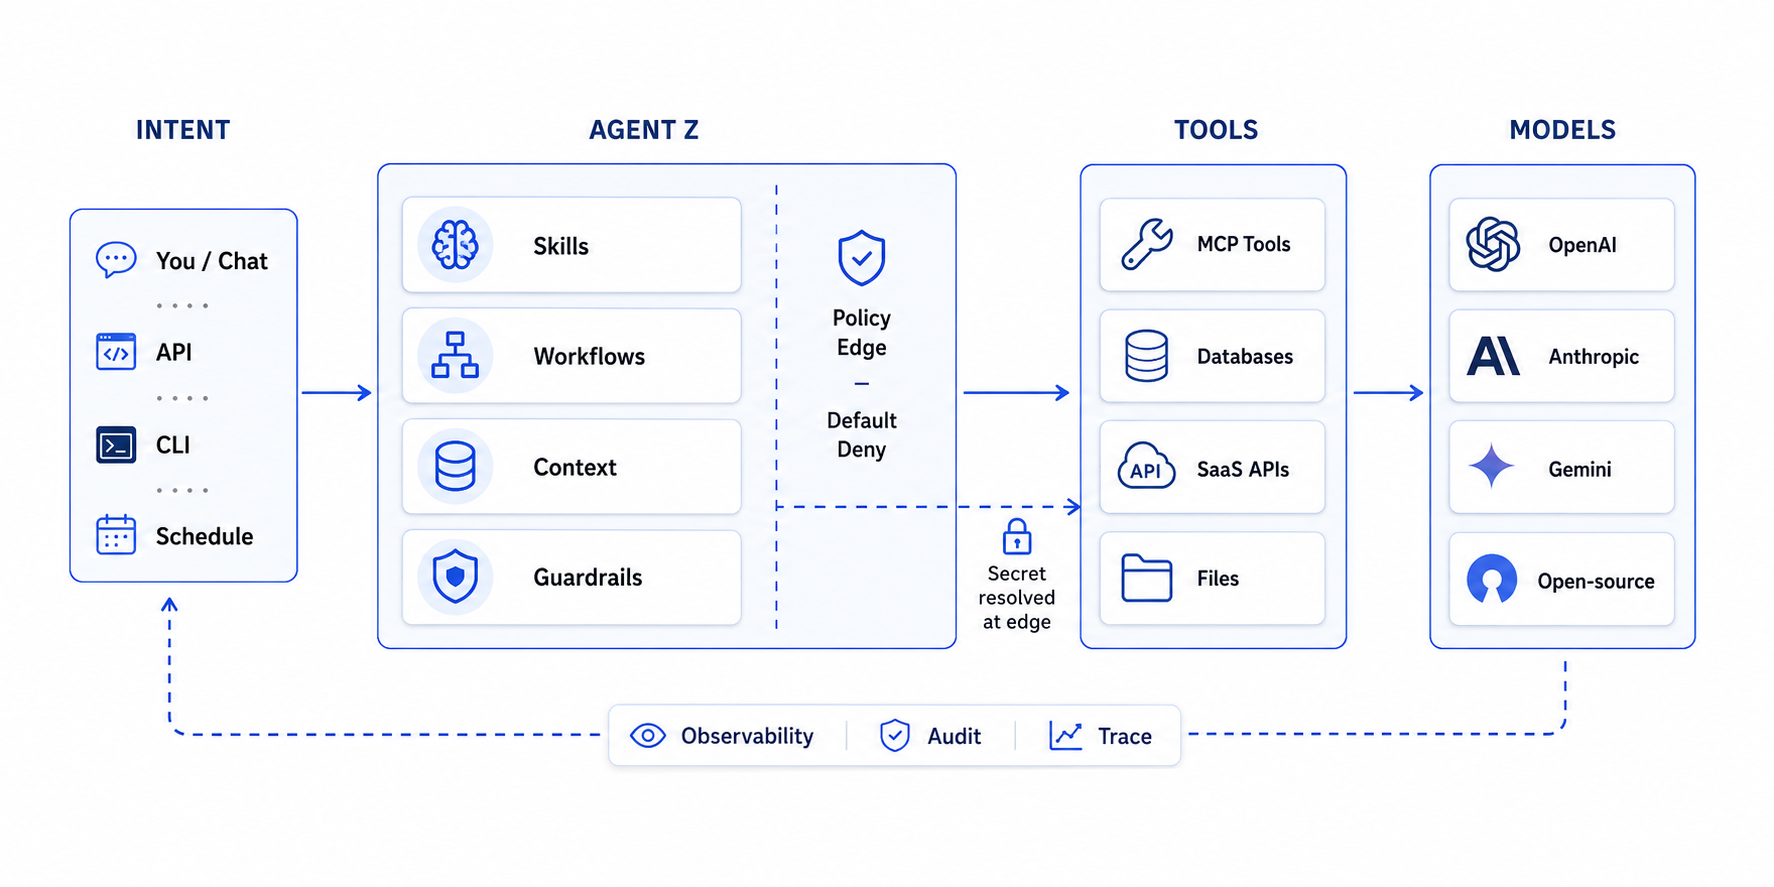
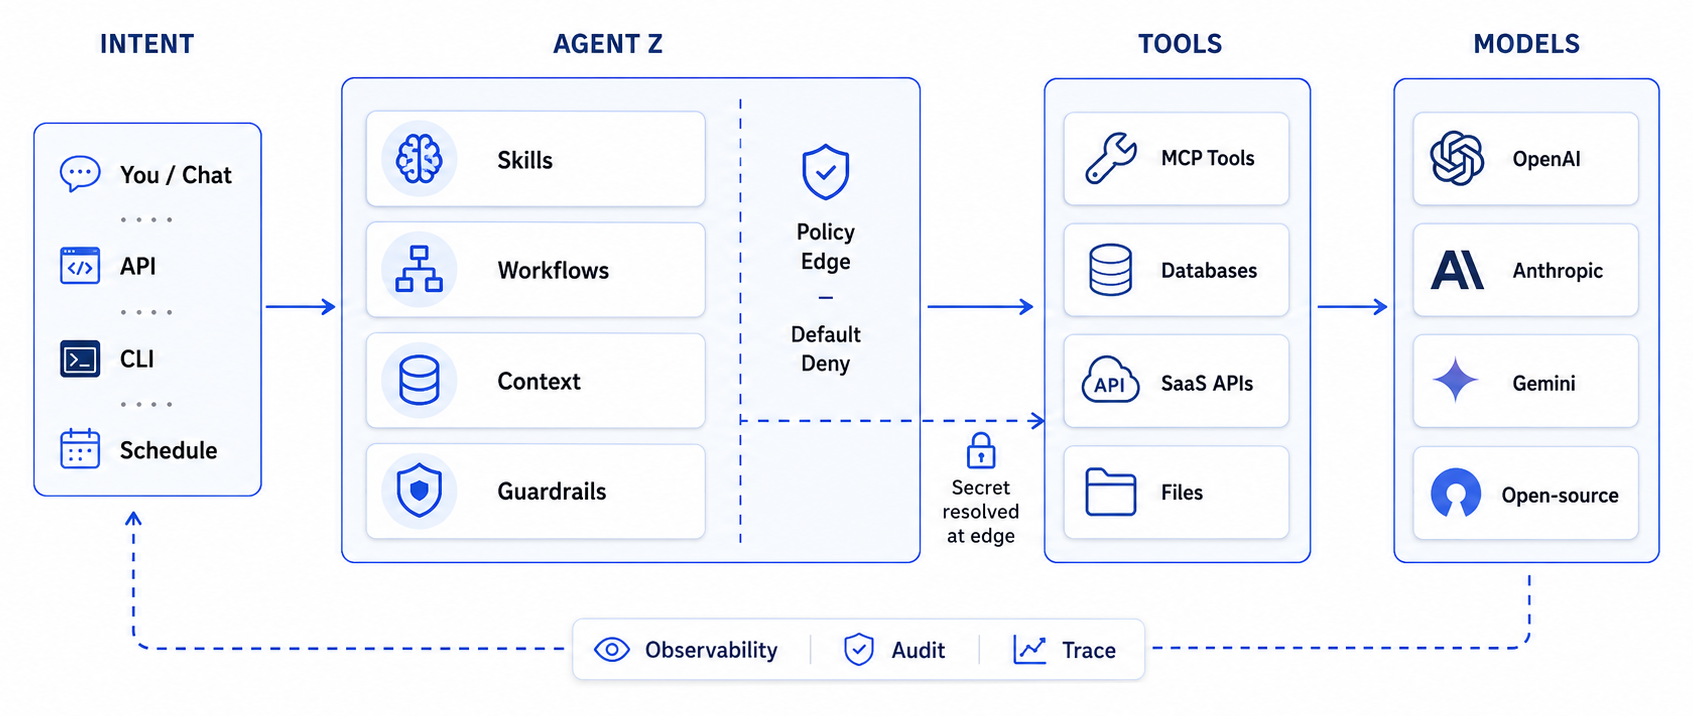
Trim flow diagram whitespace, bigger platform card text, reorder page for real content first
Crop assets/img/flow-diagram.png to its content bounding box; the source
export had ~25% dead white margin top and bottom. Bump arch-card heading
and body text size in the platform grid. Give the product-screens section
an explicit heading. Reorder sections so real product media leads: the
video carousel now sits right after Build/Run/Govern, organization safety
moves up ahead of the text-only feature sections, and the pillars section
(still placeholder cards) moves later.

diff --git a/index.html b/index.html
@@ -10,7 +10,7 @@
 <link rel="preconnect" href="https://fonts.gstatic.com" crossorigin>
 <link href="https://api.fontshare.com/v2/css?f[]=general-sans@400,500,600,700&display=swap" rel="stylesheet">
 <link href="https://fonts.googleapis.com/css2?family=Instrument+Serif:ital@0;1&family=JetBrains+Mono:wght@400;500&display=swap" rel="stylesheet">
-<link rel="stylesheet" href="styles.css?v=51" />
+<link rel="stylesheet" href="styles.css?v=52" />
 </head>
 <body>
 
@@ -154,21 +154,6 @@
   </div>
 </section>
 
-<!-- ══════════════════ THREE PILLARS (left header + cards) ══════════════════ -->
-<section class="feature" id="pillars">
-  <div class="wrap">
-    <div class="fhead">
-      <h2 class="fhead-h">A platform for the agents <span class="hl hl-a">your teams already want to build</span>.</h2>
-      <p class="fhead-p">Compose <span class="hl hl-a">skills</span>, wire them into <span class="hl hl-b">workflows</span>, and roll them out across your <span class="hl hl-c">organization</span>. Bring any model or framework, security stays underneath.</p>
-    </div>
-    <div class="ncards ncards-3">
-      <article class="ncard"><div class="ncard-top"><span class="ncard-ico"><svg class="ico"><use href="#i-skills"/></svg></span><span class="ncard-n">01</span></div><h3><span class="hl hl-a">Skill management</span></h3><p>Package capabilities as reusable skills. Versioned, testable, and shared across every agent your team runs.</p><div class="ph ncard-ph"><span class="ph-ico"><svg class="ico"><use href="#i-image"/></svg></span><span class="ph-label">Image · 16:9</span></div></article>
-      <article class="ncard"><div class="ncard-top"><span class="ncard-ico"><svg class="ico"><use href="#i-teams"/></svg></span><span class="ncard-n">02</span></div><h3><span class="hl hl-c">Organizational support</span></h3><p>Roles, teams, and shared context so every function can put agents to work, not just the platform team.</p><div class="ph ncard-ph"><span class="ph-ico"><svg class="ico"><use href="#i-image"/></svg></span><span class="ph-label">Image · 16:9</span></div></article>
-      <article class="ncard"><div class="ncard-top"><span class="ncard-ico"><svg class="ico"><use href="#i-workflows"/></svg></span><span class="ncard-n">03</span></div><h3><span class="hl hl-b">Workflow support</span></h3><p>Chain skills into workflows. Trigger on a schedule, an event, or a request. Hand off cleanly between agents.</p><div class="ph ncard-ph"><span class="ph-ico"><svg class="ico"><use href="#i-image"/></svg></span><span class="ph-label">Image · 16:9</span></div></article>
-    </div>
-  </div>
-</section>
-
 <!-- ══════════════════ BUILD · RUN · GOVERN (scroll stepper) ══════════════════ -->
 <section class="stepper" id="brg">
   <div class="stepper-sticky">
@@ -220,13 +205,32 @@
   </div>
 </section>
 
+<!-- ══════════════════ SEE IT IN ACTION (video carousel) ══════════════════ -->
+<section class="videos" id="demos">
+  <div class="wrap">
+    <div class="vid-head">
+      <h2 class="section-h2 vid-title">See AgentZ in Action <span class="vid-title-sub">Real workflows from teams</span></h2>
+      <div class="vid-nav">
+        <button class="vid-arrow" data-dir="-1" aria-label="Previous"><svg class="ico"><use href="#i-chev"/></svg></button>
+        <button class="vid-arrow" data-dir="1" aria-label="Next"><svg class="ico"><use href="#i-chev"/></svg></button>
+      </div>
+    </div>
+    <div class="vid-track" id="vid-track">
+      <a class="video-card" href="#waitlist"><div class="vw vw-thumb"><video src="assets/video/card-mcp-connect.mp4" poster="assets/video/card-mcp-connect.jpg" autoplay muted loop playsinline preload="metadata" aria-label="Connecting an MCP server in AgentZ"></video></div><b>Connect an MCP server</b><p>Pick a provider, authorize, watch it go Ready.</p></a>
+      <a class="video-card" href="#waitlist"><div class="vw vw-thumb"><video src="assets/video/card-schedule-cron.mp4" poster="assets/video/card-schedule-cron.jpg" autoplay muted loop playsinline preload="metadata" aria-label="Editing a cron schedule in AgentZ"></video></div><b>Schedule an agent</b><p>Set a cron, edit the schedule in place, no redeploy.</p></a>
+      <a class="video-card" href="#waitlist"><div class="vw vw-thumb"><video src="assets/video/card-signed-trace.mp4" poster="assets/video/card-signed-trace.jpg" autoplay muted loop playsinline preload="metadata" aria-label="Reading a signed trace in AgentZ: span tree, per-call durations and token counts"></video></div><b>Read a signed trace</b><p>Inspect every span, down to the token.</p></a>
+      <a class="video-card" href="#waitlist"><div class="ph video-thumb"><span class="ph-play"><svg class="ico"><use href="#i-play"/></svg></span><span class="ph-label">Embed demo video</span></div><b>Guard a response</b><p>Run over real tools with policy at the edge.</p></a>
+    </div>
+  </div>
+</section>
+
 <!-- ══════════════════ PRODUCT SCREENS (carousel) ══════════════════ -->
 <section class="screens" id="screens">
   <div class="wrap">
     <div class="vid-head">
       <div>
         <p class="section-eyebrow">Inside the product</p>
-        <h2 class="section-h2">A look at AgentZ.</h2>
+        <h2 class="section-h2">The real dashboard, screen by screen.</h2>
       </div>
       <div class="vid-nav">
         <button class="vid-arrow" data-dir="-1" aria-label="Previous"><svg class="ico"><use href="#i-chev"/></svg></button>
@@ -239,39 +243,6 @@
       <figure class="screen-card"><span class="screen-shot"><img src="assets/img/dash/span-error.png" alt="Span detail with token breakdown"></span><figcaption><b>Signed traces</b><span>Read every span, down to the token.</span></figcaption></figure>
       <figure class="screen-card"><span class="screen-shot"><img src="assets/img/dash/network.png" alt="Network egress allowed or blocked at the kernel"></span><figcaption><b>Policy edge</b><span>Every egress allowed or blocked at the kernel.</span></figcaption></figure>
       <figure class="screen-card"><span class="screen-shot"><img src="assets/img/dash/environment.png" alt="A signed environment"></span><figcaption><b>Environments</b><span>Identity, packages and tools in one signed object.</span></figcaption></figure>
-    </div>
-  </div>
-</section>
-
-<!-- ══════════════════ SECURE BY DEFAULT (centered header + ghost-number cards) ══════════════════ -->
-<section class="feature alt" id="secure">
-  <div class="wrap">
-    <div class="fhead center">
-      <h2 class="fhead-h">Secure by default, so you never have to <span class="hl hl-a">bolt it on later</span>.</h2>
-      <p class="fhead-p">You focus on <span class="hl hl-a">skills</span> and <span class="hl hl-b">workflows</span>. AgentZ quietly handles the four things that usually turn an agent demo into a production incident.</p>
-    </div>
-    <div class="dcards">
-      <article class="dcard"><span class="dcard-num">01</span><span class="dcard-ico"><svg class="ico"><use href="#i-key"/></svg></span><h3>Credentials, handled</h3><p>Secrets stay in the vault. Agents get scoped access at the moment they need it, and never see the key.</p></article>
-      <article class="dcard"><span class="dcard-num">02</span><span class="dcard-ico"><svg class="ico"><use href="#i-shield"/></svg></span><h3>Just-enough access</h3><p>Every skill runs with the narrowest permissions that get the job done. No standing cloud roles.</p></article>
-      <article class="dcard"><span class="dcard-num">03</span><span class="dcard-ico"><svg class="ico"><use href="#i-eye"/></svg></span><h3>Runtime you can see</h3><p>Every action, tool call, and decision is visible in one place, in real time.</p></article>
-      <article class="dcard"><span class="dcard-num">04</span><span class="dcard-ico"><svg class="ico"><use href="#i-audit"/></svg></span><h3>Audit, out of the box</h3><p>A signed trace for every run. SOC and compliance reviews stop being a project.</p></article>
-    </div>
-  </div>
-</section>
-
-<!-- ══════════════════ SIX DOMAINS (split header + hairline grid) ══════════════════ -->
-<section class="feature" id="domains">
-  <div class="wrap">
-    <div class="fhead">
-      <h2 class="fhead-h">Point an agent at the <span class="hl hl-b">work you already do</span>.</h2>
-    </div>
-    <div class="dmn-grid">
-      <div class="dmn"><div class="dmn-head"><span class="dmn-ico"><svg class="ico"><use href="#i-server"/></svg></span><h3>IT and DevOps</h3></div><p>Triage alerts, run remediations, and automate routine ops on a schedule.</p></div>
-      <div class="dmn"><div class="dmn-head"><span class="dmn-ico"><svg class="ico"><use href="#i-secops"/></svg></span><h3>Security operations</h3></div><p>Enrich incidents and run guarded response workflows over real tools.</p></div>
-      <div class="dmn"><div class="dmn-head"><span class="dmn-ico"><svg class="ico"><use href="#i-chart"/></svg></span><h3>Data and reporting</h3></div><p>Pull, summarize, and distribute recurring reports across systems.</p></div>
-      <div class="dmn"><div class="dmn-head"><span class="dmn-ico"><svg class="ico"><use href="#i-headset"/></svg></span><h3>Customer ops</h3></div><p>Resolve tickets and update records with auditable, scoped access.</p></div>
-      <div class="dmn"><div class="dmn-head"><span class="dmn-ico"><svg class="ico"><use href="#i-receipt"/></svg></span><h3>Back office</h3></div><p>Automate finance, HR, and procurement tasks under tight controls.</p></div>
-      <div class="dmn"><div class="dmn-head"><span class="dmn-ico"><svg class="ico"><use href="#i-workflows"/></svg></span><h3>Custom workflows</h3></div><p>Compose your own agents from marketplace building blocks.</p></div>
     </div>
   </div>
 </section>
@@ -339,6 +310,54 @@
   </div>
 </section>
 
+<!-- ══════════════════ SECURE BY DEFAULT (centered header + ghost-number cards) ══════════════════ -->
+<section class="feature alt" id="secure">
+  <div class="wrap">
+    <div class="fhead center">
+      <h2 class="fhead-h">Secure by default, so you never have to <span class="hl hl-a">bolt it on later</span>.</h2>
+      <p class="fhead-p">You focus on <span class="hl hl-a">skills</span> and <span class="hl hl-b">workflows</span>. AgentZ quietly handles the four things that usually turn an agent demo into a production incident.</p>
+    </div>
+    <div class="dcards">
+      <article class="dcard"><span class="dcard-num">01</span><span class="dcard-ico"><svg class="ico"><use href="#i-key"/></svg></span><h3>Credentials, handled</h3><p>Secrets stay in the vault. Agents get scoped access at the moment they need it, and never see the key.</p></article>
+      <article class="dcard"><span class="dcard-num">02</span><span class="dcard-ico"><svg class="ico"><use href="#i-shield"/></svg></span><h3>Just-enough access</h3><p>Every skill runs with the narrowest permissions that get the job done. No standing cloud roles.</p></article>
+      <article class="dcard"><span class="dcard-num">03</span><span class="dcard-ico"><svg class="ico"><use href="#i-eye"/></svg></span><h3>Runtime you can see</h3><p>Every action, tool call, and decision is visible in one place, in real time.</p></article>
+      <article class="dcard"><span class="dcard-num">04</span><span class="dcard-ico"><svg class="ico"><use href="#i-audit"/></svg></span><h3>Audit, out of the box</h3><p>A signed trace for every run. SOC and compliance reviews stop being a project.</p></article>
+    </div>
+  </div>
+</section>
+
+<!-- ══════════════════ SIX DOMAINS (split header + hairline grid) ══════════════════ -->
+<section class="feature" id="domains">
+  <div class="wrap">
+    <div class="fhead">
+      <h2 class="fhead-h">Point an agent at the <span class="hl hl-b">work you already do</span>.</h2>
+    </div>
+    <div class="dmn-grid">
+      <div class="dmn"><div class="dmn-head"><span class="dmn-ico"><svg class="ico"><use href="#i-server"/></svg></span><h3>IT and DevOps</h3></div><p>Triage alerts, run remediations, and automate routine ops on a schedule.</p></div>
+      <div class="dmn"><div class="dmn-head"><span class="dmn-ico"><svg class="ico"><use href="#i-secops"/></svg></span><h3>Security operations</h3></div><p>Enrich incidents and run guarded response workflows over real tools.</p></div>
+      <div class="dmn"><div class="dmn-head"><span class="dmn-ico"><svg class="ico"><use href="#i-chart"/></svg></span><h3>Data and reporting</h3></div><p>Pull, summarize, and distribute recurring reports across systems.</p></div>
+      <div class="dmn"><div class="dmn-head"><span class="dmn-ico"><svg class="ico"><use href="#i-headset"/></svg></span><h3>Customer ops</h3></div><p>Resolve tickets and update records with auditable, scoped access.</p></div>
+      <div class="dmn"><div class="dmn-head"><span class="dmn-ico"><svg class="ico"><use href="#i-receipt"/></svg></span><h3>Back office</h3></div><p>Automate finance, HR, and procurement tasks under tight controls.</p></div>
+      <div class="dmn"><div class="dmn-head"><span class="dmn-ico"><svg class="ico"><use href="#i-workflows"/></svg></span><h3>Custom workflows</h3></div><p>Compose your own agents from marketplace building blocks.</p></div>
+    </div>
+  </div>
+</section>
+
+<!-- ══════════════════ THREE PILLARS (left header + cards) ══════════════════ -->
+<section class="feature" id="pillars">
+  <div class="wrap">
+    <div class="fhead">
+      <h2 class="fhead-h">A platform for the agents <span class="hl hl-a">your teams already want to build</span>.</h2>
+      <p class="fhead-p">Compose <span class="hl hl-a">skills</span>, wire them into <span class="hl hl-b">workflows</span>, and roll them out across your <span class="hl hl-c">organization</span>. Bring any model or framework, security stays underneath.</p>
+    </div>
+    <div class="ncards ncards-3">
+      <article class="ncard"><div class="ncard-top"><span class="ncard-ico"><svg class="ico"><use href="#i-skills"/></svg></span><span class="ncard-n">01</span></div><h3><span class="hl hl-a">Skill management</span></h3><p>Package capabilities as reusable skills. Versioned, testable, and shared across every agent your team runs.</p><div class="ph ncard-ph"><span class="ph-ico"><svg class="ico"><use href="#i-image"/></svg></span><span class="ph-label">Image · 16:9</span></div></article>
+      <article class="ncard"><div class="ncard-top"><span class="ncard-ico"><svg class="ico"><use href="#i-teams"/></svg></span><span class="ncard-n">02</span></div><h3><span class="hl hl-c">Organizational support</span></h3><p>Roles, teams, and shared context so every function can put agents to work, not just the platform team.</p><div class="ph ncard-ph"><span class="ph-ico"><svg class="ico"><use href="#i-image"/></svg></span><span class="ph-label">Image · 16:9</span></div></article>
+      <article class="ncard"><div class="ncard-top"><span class="ncard-ico"><svg class="ico"><use href="#i-workflows"/></svg></span><span class="ncard-n">03</span></div><h3><span class="hl hl-b">Workflow support</span></h3><p>Chain skills into workflows. Trigger on a schedule, an event, or a request. Hand off cleanly between agents.</p><div class="ph ncard-ph"><span class="ph-ico"><svg class="ico"><use href="#i-image"/></svg></span><span class="ph-label">Image · 16:9</span></div></article>
+    </div>
+  </div>
+</section>
+
 <!-- ══════════════════ CONTROL (split copy + gradient card) ══════════════════ -->
 <section class="control" id="control">
   <div class="wrap control-grid">
@@ -386,25 +405,6 @@
       <span class="sh-line ital">Protected by Zero Trust.</span>
     </p>
     <p class="statement-sub">One tool for your organizational AI needs.</p>
-  </div>
-</section>
-
-<!-- ══════════════════ SEE IT IN ACTION (video carousel) ══════════════════ -->
-<section class="videos" id="demos">
-  <div class="wrap">
-    <div class="vid-head">
-      <h2 class="section-h2 vid-title">See AgentZ in Action <span class="vid-title-sub">Real workflows from teams</span></h2>
-      <div class="vid-nav">
-        <button class="vid-arrow" data-dir="-1" aria-label="Previous"><svg class="ico"><use href="#i-chev"/></svg></button>
-        <button class="vid-arrow" data-dir="1" aria-label="Next"><svg class="ico"><use href="#i-chev"/></svg></button>
-      </div>
-    </div>
-    <div class="vid-track" id="vid-track">
-      <a class="video-card" href="#waitlist"><div class="vw vw-thumb"><video src="assets/video/card-mcp-connect.mp4" poster="assets/video/card-mcp-connect.jpg" autoplay muted loop playsinline preload="metadata" aria-label="Connecting an MCP server in AgentZ"></video></div><b>Connect an MCP server</b><p>Pick a provider, authorize, watch it go Ready.</p></a>
-      <a class="video-card" href="#waitlist"><div class="vw vw-thumb"><video src="assets/video/card-schedule-cron.mp4" poster="assets/video/card-schedule-cron.jpg" autoplay muted loop playsinline preload="metadata" aria-label="Editing a cron schedule in AgentZ"></video></div><b>Schedule an agent</b><p>Set a cron, edit the schedule in place, no redeploy.</p></a>
-      <a class="video-card" href="#waitlist"><div class="vw vw-thumb"><video src="assets/video/card-signed-trace.mp4" poster="assets/video/card-signed-trace.jpg" autoplay muted loop playsinline preload="metadata" aria-label="Reading a signed trace in AgentZ: span tree, per-call durations and token counts"></video></div><b>Read a signed trace</b><p>Inspect every span, down to the token.</p></a>
-      <a class="video-card" href="#waitlist"><div class="ph video-thumb"><span class="ph-play"><svg class="ico"><use href="#i-play"/></svg></span><span class="ph-label">Embed demo video</span></div><b>Guard a response</b><p>Run over real tools with policy at the edge.</p></a>
-    </div>
   </div>
 </section>
 
@@ -528,6 +528,6 @@
 </main>
 
 <script async src="https://tally.so/widgets/embed.js"></script>
-<script src="script.js?v=51"></script>
+<script src="script.js?v=52"></script>
 </body>
 </html>

diff --git a/styles.css b/styles.css
@@ -105,8 +105,8 @@ h1,h2,h3{letter-spacing:-.025em;line-height:1.05;font-weight:600}
 .t-b{background:#ece8ff;color:var(--violet)}
 .t-c{background:#e2f3fc;color:var(--cyan)}
 .t-d{background:#e8ecff;color:#3a56e0}
-.arch-card h3{font-size:19px;color:var(--ink)}
-.arch-card p{font-size:14px;color:var(--ink-soft);margin-top:7px}
+.arch-card h3{font-size:23px;color:var(--ink)}
+.arch-card p{font-size:16.5px;color:var(--ink-soft);margin-top:9px;line-height:1.4}
 .arch-rails{display:grid;grid-template-columns:1fr 1fr;gap:20px;margin-top:20px}
 .arch-rail{border:1px solid var(--line);border-radius:18px;padding:22px;background:var(--white)}
 .rail-label{display:block;font-family:var(--mono);font-size:11px;letter-spacing:.14em;text-transform:uppercase;color:var(--ink-mute)}